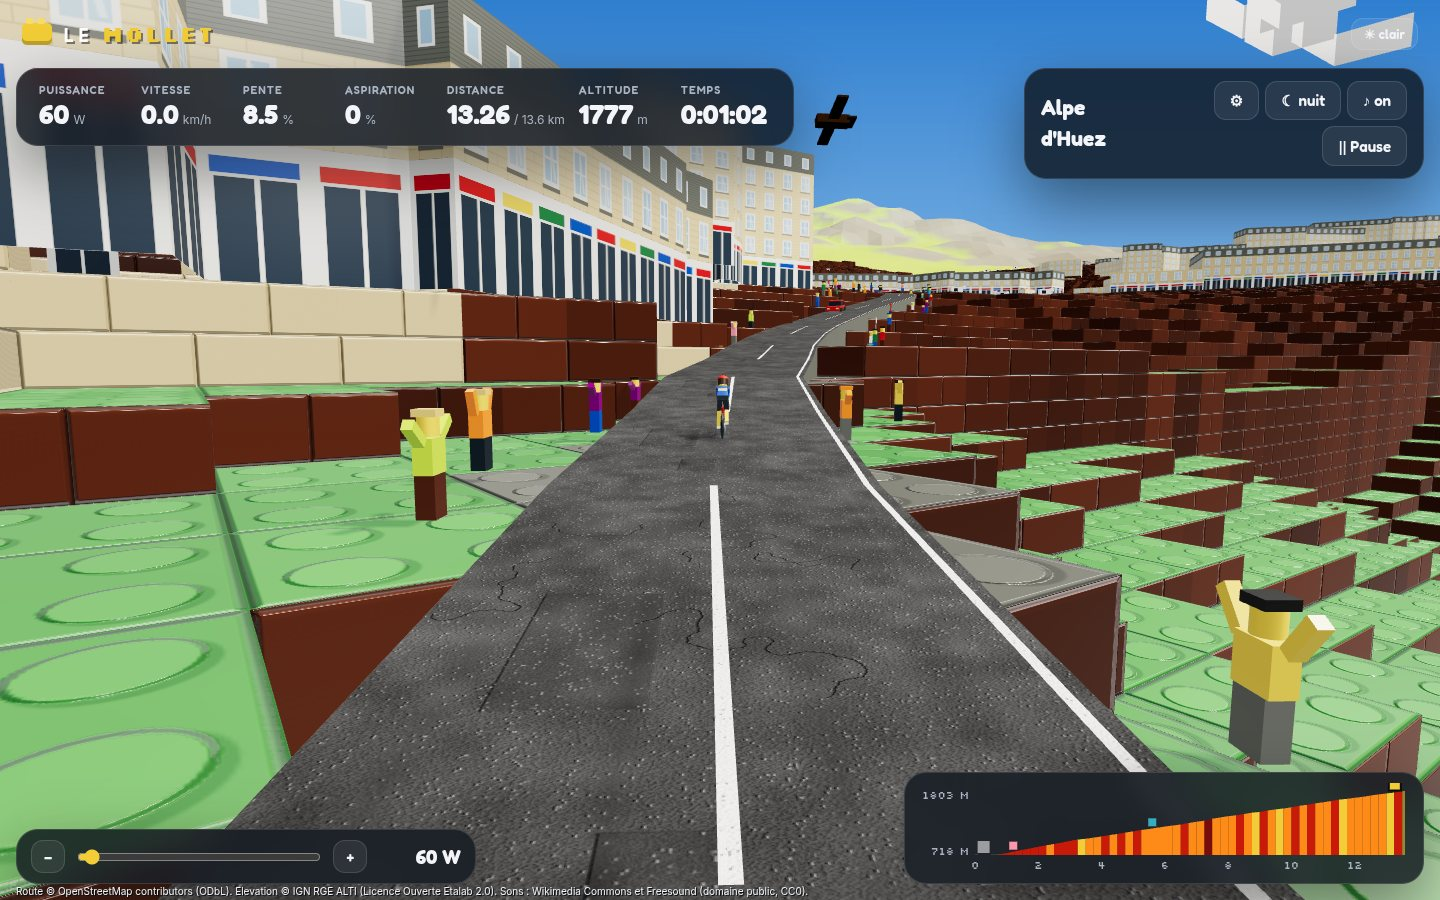
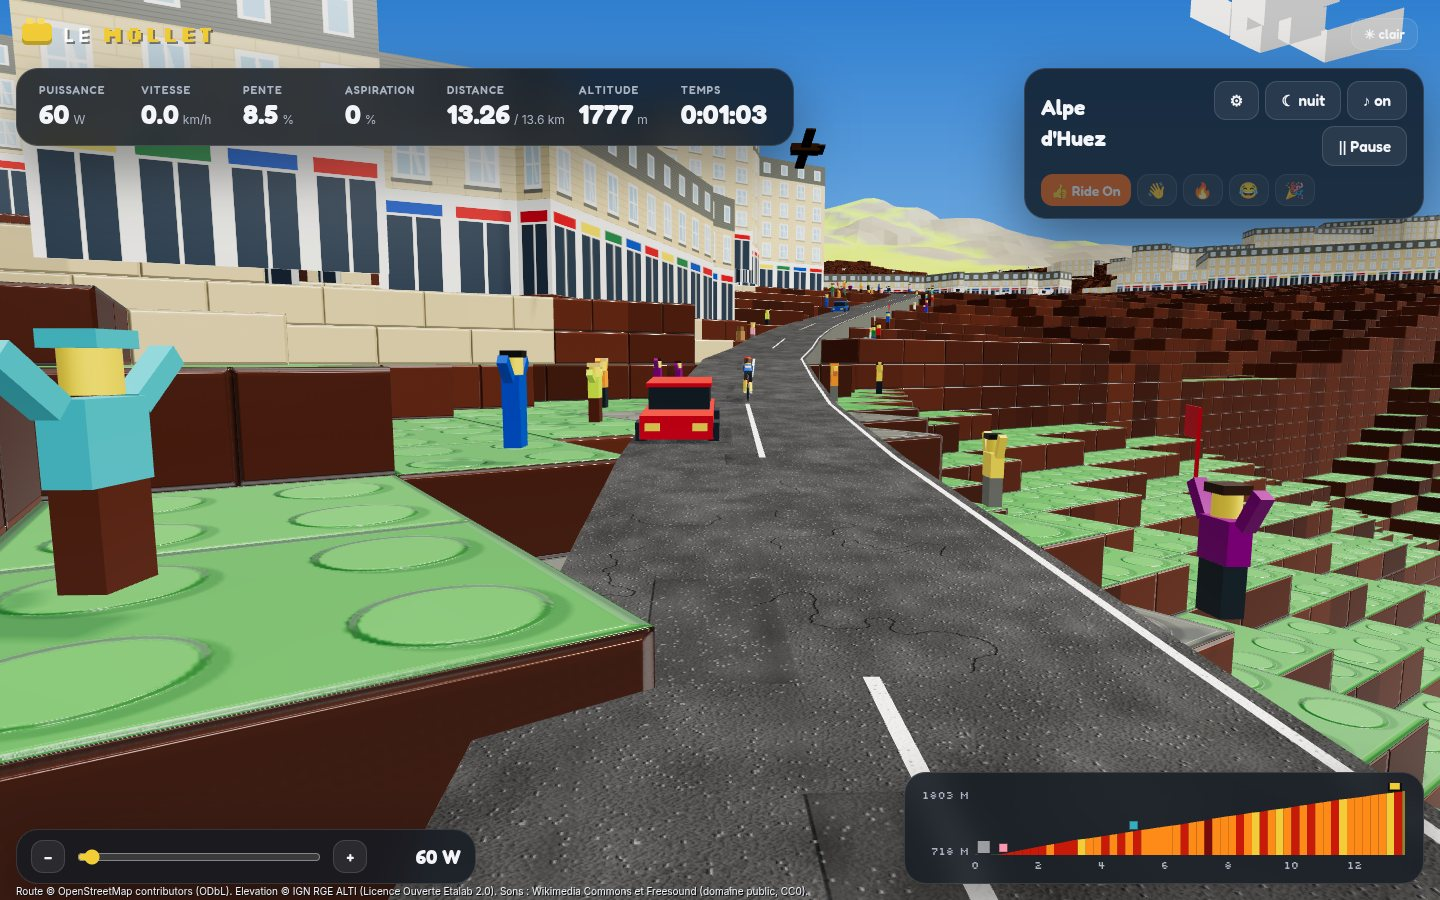
feat(web): progression, XP, levels, badges and garage unlocks
- XP per km, workout minute and segment, levels asking a little more
  each time; level badge on the avatar, XP bar on the home screen.
- 27 badges (distance, climbing, climbs, island, Paris, KOM, ghost,
  workouts, FTP test, zombies, Ride Ons, streaks) on a wall in the
  history page; earned ones add XP.
- The saved ride shows XP gained, level-ups with what they unlock, and
  new badges.
- Garage pieces unlocked by level (frames, deep rims, TT bars, glasses,
  jersey patterns, gold, the rainbow jersey) or by the King of the
  Mountains badge (polka dots). Existing profiles get their XP and
  badges from their history.
- README: progression and two more screenshots (badges, training).

diff --git a/web/index.html b/web/index.html
@@ -135,6 +135,25 @@ input:focus, select:focus { outline:3px solid var(--accent); outline-offset:0 }
 .ride-head { display:flex; justify-content:space-between; align-items:center; gap:12px; margin-bottom:18px }
 .ride-head h1, .ride-head h2 { margin:0 }
 
+/* Progression: XP bar, level on the avatar, awards, badge wall, locked garage pieces */
+.xp-bar { display:flex; align-items:center; gap:8px; margin-top:8px; font-size:12px; max-width:420px }
+.xp-bar .lvl { font:700 13px var(--font); color:var(--accent-ink) } .xp-bar small { color:var(--muted); white-space:nowrap }
+.xp-bar .bar { flex:1; height:8px; border-radius:4px; background:var(--glass-hi2); overflow:hidden } .xp-bar .bar i { display:block; height:100%; background:linear-gradient(90deg, #f2cd37, #fe8a18) }
+.hello .avatar { position:relative }
+.hello .avatar[data-level]::after { content:attr(data-level); position:absolute; right:-8px; bottom:-8px; min-width:26px; height:26px; padding:0 5px; border-radius:13px; display:grid; place-items:center; background:var(--accent); color:#1b2a34; font:700 13px var(--font); box-shadow:0 2px 0 var(--accent-deep) }
+.award { grid-column:1 / -1; display:flex; flex-direction:column; align-items:center; gap:8px; padding:12px; border-radius:16px; background:var(--glass-hi) }
+.xp-gain { font:700 28px var(--font); color:var(--accent-ink) }
+.level-up { display:flex; flex-direction:column; align-items:center; font:700 22px var(--font); padding:6px 18px; border-radius:14px; background:var(--accent); color:#1b2a34; box-shadow:0 4px 0 var(--accent-deep); animation:pop .4s cubic-bezier(.3,.7,.4,1.5) }
+.level-up small { font:600 12px var(--font) }
+.badge-won { display:flex; align-items:center; gap:8px; font-size:14px } .badge-won span { font-size:22px } .badge-won small { color:var(--accent-ink); font-weight:700 }
+.hist-badges { margin-bottom:18px } .hist-badges h2 { font-size:17px; margin:0 0 8px }
+.badge-wall { display:grid; grid-template-columns:repeat(auto-fill, minmax(150px, 1fr)); gap:8px }
+.badge { display:flex; flex-direction:column; align-items:center; text-align:center; gap:2px; padding:10px 8px; border-radius:14px; background:var(--glass-hi); border:1px solid var(--edge); opacity:.5; filter:grayscale(1) }
+.badge.on { opacity:1; filter:none; border-color:var(--accent); box-shadow:inset 0 0 0 1px var(--accent) }
+.badge .icon { font-size:28px } .badge b { font:600 13px var(--font) } .badge small { color:var(--muted); font-size:11px }
+.seg button.locked, .sw.locked { opacity:.45; cursor:not-allowed }
+.sw.locked { background-image:repeating-linear-gradient(45deg, rgba(0,0,0,.25) 0 3px, transparent 3px 7px) !important }
+
 /* Imported workouts, emotes, toasts */
 .import-row { display:flex; align-items:center; gap:12px; flex-wrap:wrap; margin:0 0 14px } .import-row .muted { margin:0; font-size:12px }
 .tag-imported { margin-left:8px; padding:2px 8px; border-radius:999px; background:var(--accent); color:#1b2a34; font:700 11px var(--font); vertical-align:middle }
@@ -414,7 +433,7 @@ input[type=range] { flex:1; accent-color:var(--accent); padding:0; border:0; bac
 
   <main id="home" hidden>
     <div class="block panel">
-      <div class="hello"><span class="avatar" id="homeAvatar"></span><div><p class="kicker">Prêt à rouler ?</p><h1 id="homeHello"></h1><div class="chips" id="homeStats"></div></div></div>
+      <div class="hello"><span class="avatar" id="homeAvatar"></span><div><p class="kicker">Prêt à rouler ?</p><h1 id="homeHello"></h1><div class="chips" id="homeStats"></div><div id="homeLevel"></div></div></div>
       <div class="dev-status"><span id="homeDevices"></span><button class="btn" id="goDevices">Équipements</button></div>
       <div class="tiles">
         <button class="tile ride" id="goRide">
@@ -523,6 +542,7 @@ input[type=range] { flex:1; accent-color:var(--accent); padding:0; border:0; bac
         <section class="hist-weeks"><div class="hist-sub"><h2>12 dernières semaines</h2><small class="muted" id="histWeekSub"></small></div><canvas id="histWeeks" aria-label="Kilomètres par semaine"></canvas></section>
         <section><h2>Tes records</h2><div class="records" id="histRecords"></div></section>
       </div>
+      <section class="hist-badges"><h2 id="histBadgesTitle">Badges</h2><div class="badge-wall" id="histBadges"></div></section>
       <div class="seg hist-filters" id="histFilters"></div>
       <div class="hist-body">
         <div class="hist-list" id="histList"></div>
@@ -667,7 +687,7 @@ const OPTIONS = [
   { tab:'bike', group:'Poste de pilotage', key:'bars', label:'Cintre', choices:[['drop', 'Route'], ['flat', 'Plat'], ['aero', 'Chrono']] },
   { tab:'bike', group:'Poste de pilotage', key:'saddle', label:'Selle', colors:true },
   { tab:'rider', group:'Maillot', key:'jersey', label:'Couleur', colors:true },
-  { tab:'rider', group:'Maillot', key:'pattern', label:'Motif', choices:[['plain', 'Uni'], ['band', 'Bande'], ['dots', 'Pois'], ['stripes', 'Rayures']] },
+  { tab:'rider', group:'Maillot', key:'pattern', label:'Motif', choices:[['plain', 'Uni'], ['band', 'Bande'], ['dots', 'Pois'], ['stripes', 'Rayures'], ['rainbow', 'Arc-en-ciel']] },
   { tab:'rider', group:'Maillot', key:'pattern2', label:'Couleur du motif', colors:true, when:r => r.pattern !== 'plain' },
   { tab:'rider', group:'Tenue', key:'shorts', label:'Cuissard', colors:true },
   { tab:'rider', group:'Tenue', key:'shoes', label:'Chaussures', colors:true },
@@ -888,6 +908,7 @@ function legoRider(r) {
     c.fillStyle = a.pattern2;
     if (a.pattern === 'band') c.fillRect(0, 34, w, 26);
     if (a.pattern === 'stripes') for (let x = 0; x < w; x += 32) c.fillRect(x, 0, 12, h);
+    if (a.pattern === 'rainbow') [LC.blue, LC.red, LC.black, LC.yel, LC.grn].forEach((col, k) => { c.fillStyle = col; c.fillRect(0, 30 + k * 7, w, 7) }); // world champion's bands
     if (a.pattern === 'dots') for (let y = 12; y < h; y += 28) for (let x = (y / 28 % 2) * 16 + 8; x < w; x += 32) { c.beginPath(); c.arc(x, y, 7, 0, 7); c.fill() }
     c.fillStyle = 'rgba(0,0,0,.35)'; c.fillRect(127, 0, 2, 60); // zip
   });
@@ -1268,6 +1289,10 @@ function showHome(p = current) {
   $('#goTrainSub').textContent = `${ride.workouts?.length ?? 0} séances calées sur ta FTP`;
   renderHistory();
   renderSensors();
+  initProgress(p);
+  const L = levelOf(p.xp ?? 0);
+  $('#homeAvatar').dataset.level = L.level;
+  $('#homeLevel').replaceChildren(xpBar(L));
   const rides = p.history?.length ?? 0;
   $('#goHistorySub').textContent = rides ? `${rides} sortie${rides > 1 ? 's' : ''}, tes records` : 'Ton historique et tes records';
   $('#homeMode').textContent = !ride.list ? '' : ride.list.trainer
@@ -1354,19 +1379,23 @@ function renderOptions() {
     ...shown.filter(o => o.group === name).map(o => h('fieldset', { class:'opt' },
       h('legend', {}, o.label),
       o.colors
-        ? h('div', { class:'swatches' }, ...Object.entries(o.colors === true ? PALETTE : o.colors).map(([name, hex]) => h('button', {
-            class: 'sw' + (v[o.key] === hex ? ' on' : ''), style:`background:${hex}`,
-            title:name, 'aria-label':`${o.label} : ${name}`, 'aria-pressed': v[o.key] === hex,
-            onclick: () => set(o.key, hex),
-          })))
-        : h('div', { class:'seg' }, ...o.choices.map(([val, label]) => h('button', {
-            class: v[o.key] === val ? 'on' : '', 'aria-pressed': v[o.key] === val,
-            onclick: () => set(o.key, val),
-          }, label))),
+        ? h('div', { class:'swatches' }, ...swatchesOf(o).map(([name, hex]) => { const lock = v[o.key] !== hex && lockOf(o.key, hex); return h('button', {
+            class: 'sw' + (v[o.key] === hex ? ' on' : '') + (lock ? ' locked' : ''), style:`background:${hex}`,
+            title:lock ? `${name} : débloqué au ${lock}` : name, 'aria-label':`${o.label} : ${name}${lock ? ` (verrouillé, ${lock})` : ''}`, 'aria-pressed': v[o.key] === hex,
+            ...(lock ? { disabled:'' } : {}), onclick: () => set(o.key, hex),
+          }) }))
+        : h('div', { class:'seg' }, ...o.choices.map(([val, label]) => { const lock = v[o.key] !== val && lockOf(o.key, val); return h('button', {
+            class: (v[o.key] === val ? 'on' : '') + (lock ? ' locked' : ''), 'aria-pressed': v[o.key] === val, title:lock ? `Débloqué au ${lock}` : '',
+            ...(lock ? { disabled:'' } : {}), onclick: () => set(o.key, val),
+          }, lock ? `🔒 ${label}` : label) })),
     )))));
 }
 
+// Colors of an option; frame, jersey and helmet also come in gold, once earned.
+const swatchesOf = o => [...Object.entries(o.colors === true ? PALETTE : o.colors), ...(GOLD_KEYS.has(o.key) ? [['Or', GOLD]] : [])];
+
 function set(key, val) {
+  if (lockOf(key, val)) return;
   current[GARAGE[garageTab].obj][key] = val;
   persist();
   renderOptions();
@@ -1377,7 +1406,7 @@ function set(key, val) {
 $('#surprise').addEventListener('click', () => {
   const pick = list => list[Math.floor(Math.random() * list.length)];
   for (const o of OPTIONS.filter(o => o.tab === garageTab))
-    current[GARAGE[garageTab].obj][o.key] = o.colors ? pick(Object.values(o.colors === true ? PALETTE : o.colors)) : pick(o.choices)[0];
+    current[GARAGE[garageTab].obj][o.key] = pick((o.colors ? swatchesOf(o).map(([, hex]) => hex) : o.choices.map(([v]) => v)).filter(v => !lockOf(o.key, v)));
   persist();
   renderOptions();
   draw(current, garageTab);
@@ -1682,6 +1711,7 @@ async function openZombie() {
 async function openRide(id, hasTerrain, kind = 'course', start = null) {
   ride.start = start; // open world: index of the picked start place
   ride.rideOns = 0;
+  [ride.segCount, ride.rideOnsGiven] = [0, 0];
   $('#emotes').hidden = false;
   $('.map').classList.toggle('round', kind === 'city'); // open worlds get the round minimap
   const zombie = kind === 'zombie';
@@ -4059,6 +4089,7 @@ function renderHistoryPage() {
     kpi(`${Math.floor(t / 3600)} h ${String(Math.floor(t / 60) % 60).padStart(2, '0')}`, 'en selle'), kpi(Math.round(sum('energyKj')).toLocaleString('fr'), 'kcal brûlées'),
     kpi(Object.keys(current.ghosts ?? {}).length, 'fantômes'));
   renderRecords(all);
+  renderBadges();
   requestAnimationFrame(() => drawWeeks($('#histWeeks'), all));
   const counts = Object.fromEntries(Object.keys(CATS).map(k => [k, all.filter(r => catOf(r) === k).length]));
   $('#histFilters').replaceChildren(...[['all', `Tout · ${all.length}`], ...Object.entries(CATS).filter(([k]) => counts[k]).map(([k, [n]]) => [k, `${n} · ${counts[k]}`])].map(([k, label]) =>
@@ -4275,6 +4306,7 @@ setInterval(driveTrainer, 1000);
 // The devices step: connect, see the figures move, then go. Home keeps a status line.
 function showDevices(p = current) {
   current = p;
+  initProgress(p);
   show('#devicesScreen');
   draw(p);
   renderSensors();
@@ -4349,6 +4381,8 @@ function trackSegments() {
     clearTimeout(ride.toastTimer);
     ride.toastTimer = setTimeout(() => { t.hidden = true }, 7000);
     (current.segments ??= {})[r.name] = Math.min(current.segments[r.name] ?? Infinity, r.time);
+    ride.segCount = (ride.segCount ?? 0) + 1;
+    if (r.kind === 'kom' && r.rank.today === 1) current.komWins = (current.komWins ?? 0) + 1;
     persist();
   }
 }
@@ -4509,7 +4543,7 @@ function sendEmote(e) {
   if (e === 'rideon' && !to) return toast('Personne à encourager pour l\'instant.');
   fetch(`/emote?session=${ride.session}&course=${encodeURIComponent(ride.id)}&e=${e}${to ? `&to=${to.id}` : ''}`).catch(() => {});
   if (w3.bike) showBubble(w3.bike, e, 2.9 / BIKE_SCALE); // my own bubble, right away
-  if (to) toast(`👍 Ride On envoyé à ${to.name}`);
+  if (to) { toast(`👍 Ride On envoyé à ${to.name}`); ride.rideOnsGiven = (ride.rideOnsGiven ?? 0) + 1 }
 }
 function renderEmotes() {
   const to = nearestOther();
@@ -4554,6 +4588,135 @@ addEventListener('keydown', e => {
 
 $('#zwoFile').addEventListener('change', e => { importZwo([...e.target.files]); e.target.value = '' });
 
+// ---------- progression: XP, levels, badges, garage unlocks (kept in the profile) ----------
+// XP like Zwift: 20 per km ridden, 12 per minute of workout, 50 per segment finished, plus each badge's bonus.
+const XP = { km:20, workoutMin:12, segment:50 };
+// Each level asks a little more than the last: 500 XP to level 2, then +250 each time.
+function levelOf(xp) {
+  let [level, at, need] = [1, 0, 500];
+  while (xp >= at + need && level < 99) { at += need; level++; need = 500 + 250 * (level - 1) }
+  return { level, into:xp - at, need };
+}
+const rideXp = r => Math.round((r.kind === 'workout' ? r.elapsed / 60 * XP.workoutMin : r.distance / 1000 * XP.km) + (r.segments ?? 0) * XP.segment);
+
+// Longest run of consecutive days with a ride.
+function streakDays(H) {
+  const days = [...new Set(H.map(r => Math.floor((Date.parse(r.date) - new Date().getTimezoneOffset() * 6e4) / 864e5)))].sort((a, b) => a - b);
+  let [best, run] = [days.length ? 1 : 0, 1];
+  for (let i = 1; i < days.length; i++) { run = days[i] === days[i - 1] + 1 ? run + 1 : 1; best = Math.max(best, run) }
+  return best;
+}
+function progressStats(p = current) {
+  const H = p.history ?? [], max = xs => Math.max(0, ...xs), done = H.filter(r => r.completed);
+  return {
+    rides:H.length, km:H.reduce((a, r) => a + r.distance, 0) / 1000, climbed:H.reduce((a, r) => a + (r.climbed ?? 0), 0),
+    longestKm:max(H.map(r => r.distance / 1000)), longestH:max(H.map(r => r.elapsed / 3600)),
+    workouts:done.filter(r => r.kind === 'workout').length, ftpTest:done.some(r => r.kind === 'workout' && /Test FTP/.test(r.name)),
+    zombieWave:max(H.filter(r => r.kind === 'zombie').map(r => r.wave ?? 0)), zombieMin:max(H.filter(r => r.kind === 'zombie').map(r => r.elapsed / 60)),
+    climbs:new Set(done.filter(r => catOf(r) === 'climb').map(r => r.courseId ?? r.name)).size, allClimbs:Math.max(1, ride.list?.courses?.length ?? 6),
+    islandKm:max(H.filter(r => r.courseId === 'ile-des-briques').map(r => r.distance / 1000)), parisKm:max(H.filter(r => r.courseId === 'paris').map(r => r.distance / 1000)),
+    rideOns:H.reduce((a, r) => a + (r.rideOns ?? 0), 0), given:H.reduce((a, r) => a + (r.rideOnsGiven ?? 0), 0),
+    segments:Object.keys(p.segments ?? {}), komWins:p.komWins ?? 0, records:H.filter(r => r.record).length, streak:streakDays(H),
+  };
+}
+// [id, icon, name, what to do, XP bonus, progress (stats) -> [now, goal]]
+const BADGES = [
+  ['first', '🚲', 'Première sortie', 'Termine et enregistre une sortie', 100, s => [s.rides, 1]],
+  ['km100', '🛣', '100 km', '100 km au compteur', 200, s => [s.km, 100]],
+  ['km500', '🗺', '500 km', '500 km au compteur', 400, s => [s.km, 500]],
+  ['km1000', '🌍', '1 000 km', '1 000 km au compteur', 800, s => [s.km, 1000]],
+  ['km5000', '🚀', '5 000 km', '5 000 km au compteur', 2000, s => [s.km, 5000]],
+  ['up1000', '⛰', '1 000 m', '1 000 m de dénivelé cumulé', 200, s => [s.climbed, 1000]],
+  ['everest', '🏔', 'Everest', '8 848 m de dénivelé cumulé', 1000, s => [s.climbed, 8848]],
+  ['up25k', '🛰', 'Stratosphère', '25 000 m de dénivelé cumulé', 2000, s => [s.climbed, 25000]],
+  ['fondo', '🏅', 'Gran fondo', '100 km en une sortie', 800, s => [s.longestKm, 100]],
+  ['twoh', '⏱', 'Deux heures', '2 h en selle d\'un coup', 300, s => [s.longestH, 2]],
+  ['col', '🧗', 'Premier col', 'Monte un col jusqu\'en haut', 300, s => [s.climbs, 1]],
+  ['allcols', '👑', 'Tous les cols', 'Monte tous les cols jusqu\'en haut', 1500, s => [s.climbs, s.allClimbs]],
+  ['magmor', '🌋', 'Dompteur de volcan', 'Termine le KOM du Magmor', 500, s => [+s.segments.includes('KOM du Magmor'), 1]],
+  ['island', '🏝', 'Tour de l\'île', '30 km sur l\'Île des Briques en une sortie', 500, s => [s.islandKm, 30]],
+  ['paris', '🗼', 'Parisien', '20 km dans Paris en une sortie', 400, s => [s.parisKm, 20]],
+  ['kom', '🔴', 'Roi de la montagne', 'Le meilleur temps du jour sur un KOM', 600, s => [s.komWins, 1]],
+  ['segs', '⚡', 'Chasseur de segments', 'Termine 5 segments différents', 400, s => [s.segments.length, 5]],
+  ['ghost', '👻', 'Plus fort que ton fantôme', 'Bats ton record sur un col', 400, s => [s.records, 1]],
+  ['wk1', '📈', 'Première séance', 'Termine une séance', 150, s => [s.workouts, 1]],
+  ['wk10', '🏋', 'Assidu', 'Termine 10 séances', 600, s => [s.workouts, 10]],
+  ['ftp', '🧪', 'Testé', 'Termine un test FTP', 400, s => [+s.ftpTest, 1]],
+  ['zombie', '🧟', 'Survivant', 'Tiens 10 min face aux zombies', 300, s => [s.zombieMin, 10]],
+  ['wave5', '🎃', 'Vague 5', 'Atteins la vague 5 des zombies', 500, s => [s.zombieWave, 5]],
+  ['fair', '👍', 'Fair-play', 'Envoie 10 Ride On', 200, s => [s.given, 10]],
+  ['popular', '🌟', 'Populaire', 'Reçois 10 Ride On', 300, s => [s.rideOns, 10]],
+  ['streak3', '🔥', 'Trois jours de suite', 'Roule trois jours d\'affilée', 300, s => [s.streak, 3]],
+  ['streak7', '📅', 'Semaine parfaite', 'Roule sept jours d\'affilée', 800, s => [s.streak, 7]],
+].map(([id, icon, name, desc, xp, progress]) => ({ id, icon, name, desc, xp, progress }));
+const BADGE_BY_ID = Object.fromEntries(BADGES.map(b => [b.id, b]));
+
+// Garage pieces earned by level, or by a badge.
+const LOCKS = { frameType:{ aero:3, gravel:5, vintage:8 }, rimDepth:{ 3:4 }, bars:{ aero:6 }, glasses:{ on:3 },
+  pattern:{ band:2, stripes:4, dots:'kom', rainbow:12 }, frame:{ '#aa7f2e':10 }, jersey:{ '#aa7f2e':10 }, helmetColor:{ '#aa7f2e':10 } };
+const GOLD = '#aa7f2e', GOLD_KEYS = new Set(['frame', 'jersey', 'helmetColor']);
+function lockOf(key, val) {
+  const need = LOCKS[key]?.[val];
+  if (need == null) return null;
+  if (typeof need === 'string') return current.badges?.[need] ? null : `badge « ${BADGE_BY_ID[need].name} »`;
+  return levelOf(current.xp ?? 0).level >= need ? null : `niveau ${need}`;
+}
+
+// New badges for the stats now; their XP is added. Returns what was earned.
+function earnBadges(p = current) {
+  const s = progressStats(p), won = [];
+  p.badges ??= {};
+  for (const b of BADGES) {
+    const [now, goal] = b.progress(s);
+    if (!p.badges[b.id] && now >= goal) { p.badges[b.id] = new Date().toISOString(); p.xp = (p.xp ?? 0) + b.xp; won.push(b) }
+  }
+  return won;
+}
+// Profiles from before progression: XP and badges from their history, once.
+function initProgress(p = current) {
+  if (p.xp != null) return;
+  p.xp = (p.history ?? []).reduce((a, r) => a + rideXp(r), 0);
+  earnBadges(p);
+  persist();
+}
+// After a saved ride: XP for the ride, then any badge it unlocks.
+function awardRide(r) {
+  const before = levelOf(current.xp ?? 0).level, gained = rideXp(r);
+  current.xp = (current.xp ?? 0) + gained;
+  const badges = earnBadges();
+  persist();
+  return { gained:gained + badges.reduce((a, b) => a + b.xp, 0), badges, before, after:levelOf(current.xp).level };
+}
+function awardLine(a) {
+  if (!a) return;
+  const L = levelOf(current.xp);
+  $('#menuStats').append(h('div', { class:'award' },
+    h('b', { class:'xp-gain' }, `+${a.gained.toLocaleString('fr')} XP`),
+    a.after > a.before ? h('div', { class:'level-up' }, `Niveau ${a.after} !`, h('small', {}, unlockedAt(a.before, a.after))) : '',
+    xpBar(L),
+    ...a.badges.map(b => h('div', { class:'badge-won' }, h('span', {}, b.icon), h('b', {}, b.name), h('small', {}, `+${b.xp} XP`)))));
+}
+// What a level-up just made available in the garage.
+function unlockedAt(from, to) {
+  const names = { aero:'cadre aéro', gravel:'cadre gravel', vintage:'cadre vintage', 3:'jantes profondes', band:'maillot à bande', stripes:'maillot rayé', rainbow:'maillot arc-en-ciel', on:'lunettes', [GOLD]:'couleur Or' };
+  const got = new Set();
+  for (const [key, vals] of Object.entries(LOCKS)) for (const [v, need] of Object.entries(vals)) if (typeof need === 'number' && need > from && need <= to) got.add(key === 'bars' ? 'cintre chrono' : names[v] ?? v);
+  return got.size ? `Nouveau au garage : ${[...got].join(', ')}` : '';
+}
+const xpBar = L => h('div', { class:'xp-bar' }, h('span', { class:'lvl' }, `Niv. ${L.level}`), h('span', { class:'bar' }, h('i', { style:`width:${(L.into / L.need * 100).toFixed(1)}%` })),
+  h('small', {}, `${L.into.toLocaleString('fr')} / ${L.need.toLocaleString('fr')} XP`));
+
+// The badge wall, in the history page.
+function renderBadges() {
+  const s = progressStats(), got = BADGES.filter(b => current.badges?.[b.id]).length;
+  $('#histBadgesTitle').textContent = `Badges · ${got} / ${BADGES.length}`;
+  $('#histBadges').replaceChildren(...BADGES.map(b => {
+    const [now, goal] = b.progress(s), on = !!current.badges?.[b.id];
+    return h('div', { class:'badge' + (on ? ' on' : ''), title:`${b.desc} · +${b.xp} XP` }, h('span', { class:'icon' }, b.icon), h('b', {}, b.name),
+      h('small', {}, on ? `Obtenu le ${new Date(current.badges[b.id]).toLocaleDateString('fr-FR', { day:'numeric', month:'short' })}` : goal > 1 ? `${Math.min(Math.floor(now), goal).toLocaleString('fr')} / ${goal.toLocaleString('fr')}` : b.desc));
+  }));
+}
+
 function summary(s = ride.state ?? {}) {
   const t = s.elapsed ?? 0, z = s.zombie;
   return {
@@ -4572,6 +4735,8 @@ function summary(s = ride.state ?? {}) {
     energyKj: s.energy_kj ?? 0,
     completed: ride.mode === 'workout' ? !!s.workout?.done : !!s.finished,
     rideOns: ride.rideOns ?? 0,
+    rideOnsGiven: ride.rideOnsGiven ?? 0,
+    segments: ride.segCount ?? 0,
     ...((ride.mode === 'course' || ride.mode === 'city') && { courseId:ride.id, looped:!!ride.course?.looped }),
     trace: thin(ride.samples ?? [], 240), // [elapsed s, W, km/h, m]
   };
@@ -4609,6 +4774,7 @@ function openMenu(mode) {
   renderSummary(r);
   ghostLine(mode, r);
   ftpLine(mode);
+  if (mode === 'saved') awardLine(ride.award);
   renderBoards();
   $('#exportFit').hidden = !(ride.full?.length > 5);
   $('#resume').hidden = mode !== 'pause';
@@ -4651,7 +4817,7 @@ function saveRide() {
   ride.ghostResult = keepGhost(r);
   r.record = !!ride.ghostResult?.record;
   current.history = [r, ...(current.history ?? [])].slice(0, 200);
-  persist();
+  ride.award = awardRide(r);
   ride.events?.close();
   stopAmbience();
   openMenu('saved');

diff --git a/README.md b/README.md
@@ -32,6 +32,10 @@ A multiplayer, online indoor cycling training program. Open source, core in Rust
 <td><img src="docs/screenshots/history.jpg" alt="Ride history: totals, weekly bricks, records, ride details"><br><sub><b>History.</b> Totals, weekly bricks, records, curves and FIT export.</sub></td>
 <td><img src="docs/screenshots/equipment.jpg" alt="Equipment step: connect the trainer and heart rate strap"><br><sub><b>Equipment.</b> Connect your trainer and heart rate strap from the browser.</sub></td>
 </tr>
+<tr>
+<td><img src="docs/screenshots/badges.jpg" alt="Badge wall: 27 badges, earned ones lit"><br><sub><b>Badges.</b> 27 to earn, levels unlock garage pieces.</sub></td>
+<td><img src="docs/screenshots/training.jpg" alt="Training: structured sessions and .zwo import"><br><sub><b>Training.</b> Sessions on your FTP, import Zwift .zwo files, FTP test.</sub></td>
+</tr>
 </table>
 
 ## Ride
@@ -81,6 +85,10 @@ A multiplayer, online indoor cycling training program. Open source, core in Rust
 - **Garage**, bike and rider apart: the bike (road, aero, gravel or vintage frame, colors, rims, handlebars) on
   its trainer, and your Lego minifig standing on its plate (jersey and its pattern, shorts, shoes, helmet,
   glasses, face, hair, skin). The same rider pedals in every ride. Feeling lucky? "Surprise me".
+- **Progression**: XP for every km, workout minute and segment, levels, 27 badges (Everest, Gran fondo, all the
+  climbs, the volcano, a perfect week…). Levels unlock garage pieces: aero, gravel and vintage frames, deep rims,
+  TT bars, glasses, jersey patterns up to the world champion's rainbow, gold paint; the polka-dot jersey is won as
+  King of the Mountains.
 - **Ride history**: a page of its own with totals, weekly bricks, personal records and each ride's power and
   elevation curves. Export any ride as a **.fit** file for Strava, Garmin Connect or intervals.icu.
 
